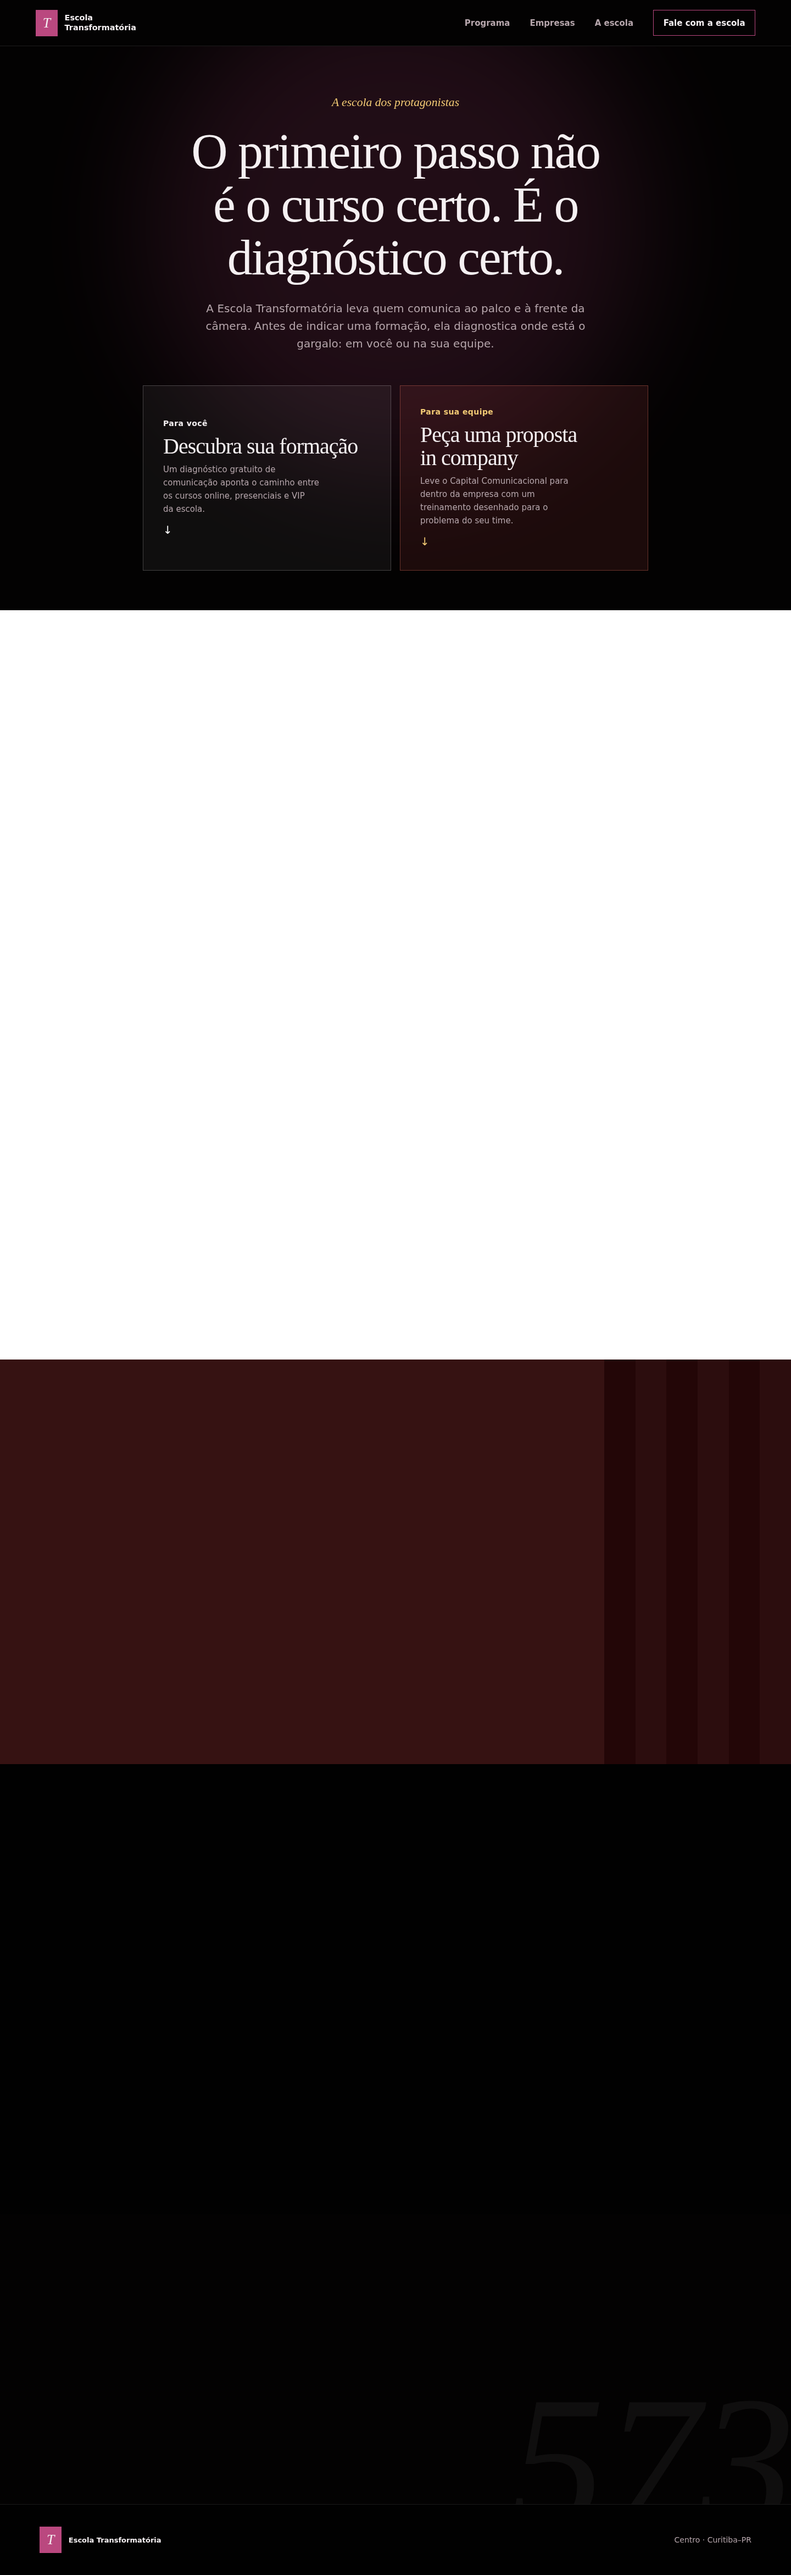
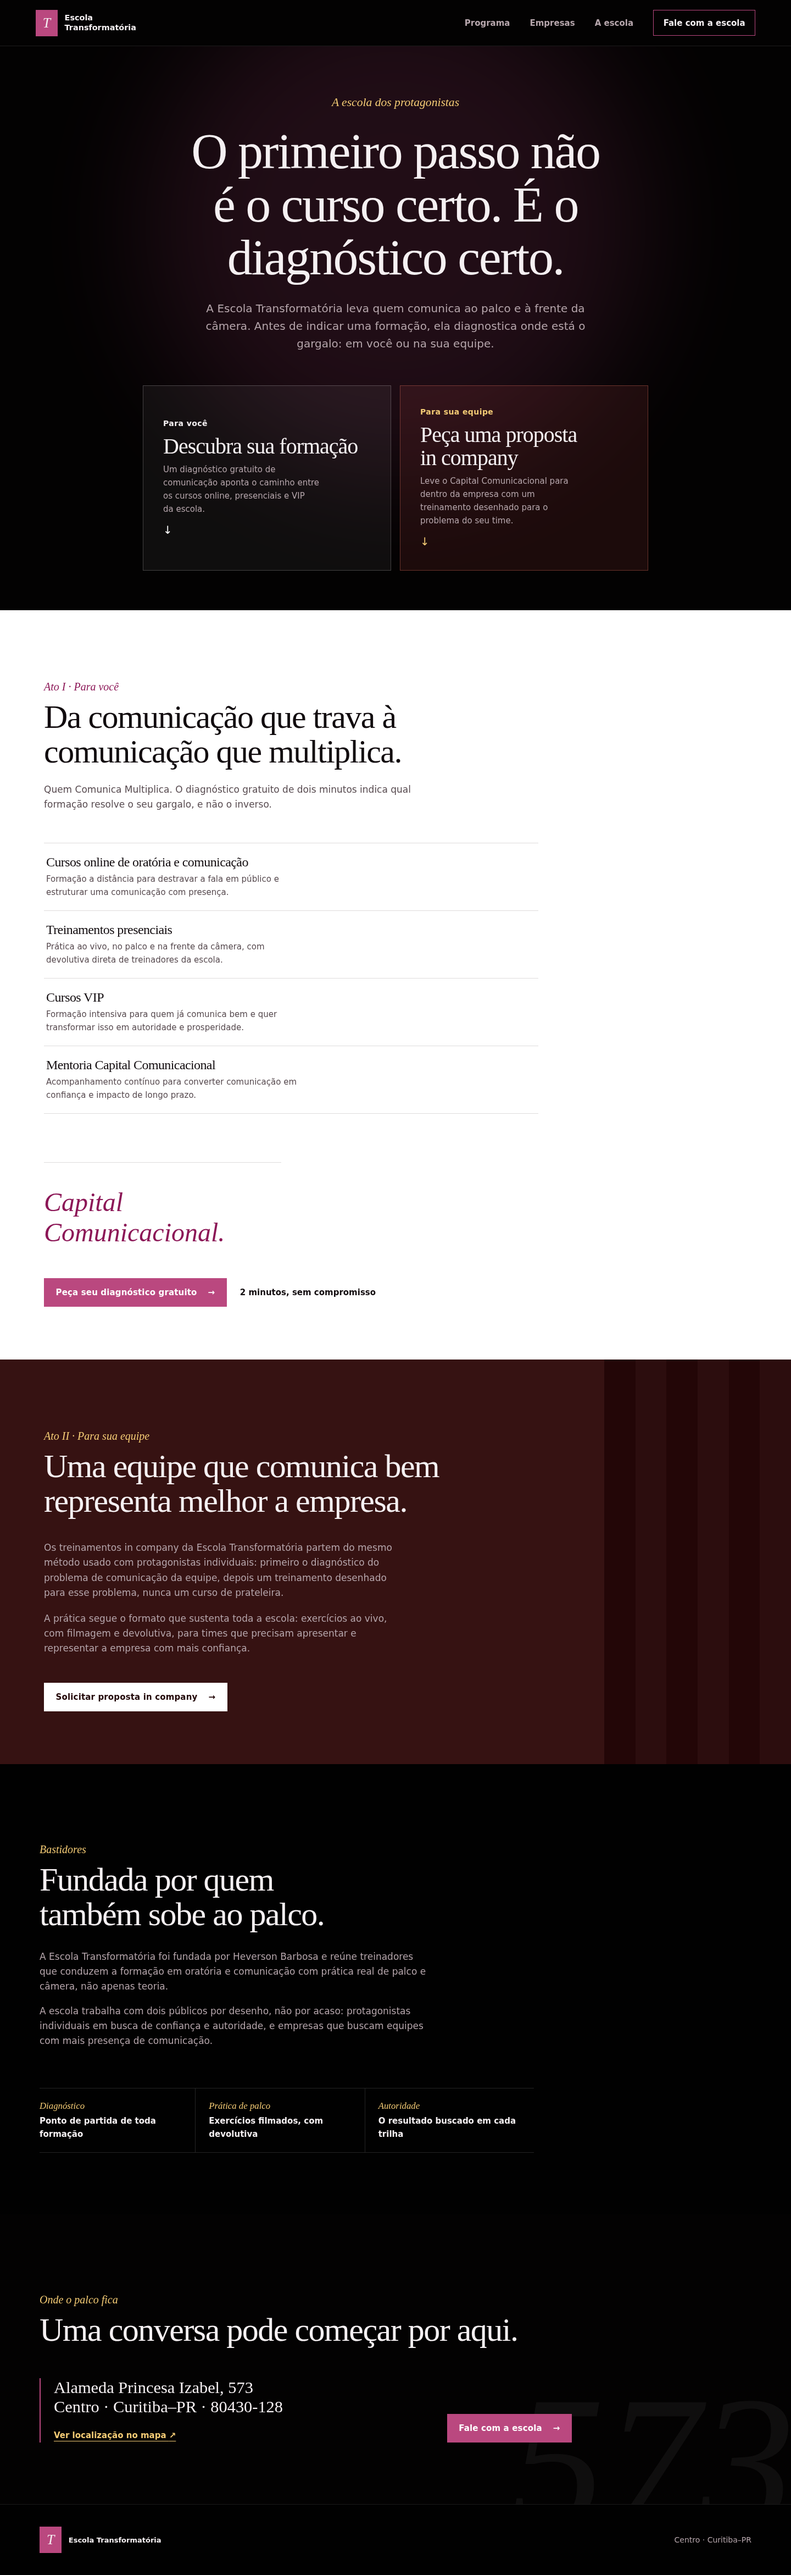
Promote validated transformatoria-escola build 3bdb7b3848ce

diff --git a/sources/curitiba-rebuilds/2026-07-19/transformatoria-escola/styles.css b/sources/curitiba-rebuilds/2026-07-19/transformatoria-escola/styles.css
@@ -483,22 +483,21 @@ footer.site-footer p { margin: 0; font-size: .875rem; }
 /* ==========================================================================
    Reveal-on-scroll (staggered, disabled under reduced motion)
    ========================================================================== */
-/* Content is visible by default, with or without JS. The reveal effect is a
-   progressive enhancement: only elements explicitly marked ".pending" by
-   script.js (because they were off-screen at load) ever go transparent, and
-   a JS-side failsafe timer forces them visible regardless of whether the
-   IntersectionObserver fires. Content must never depend on a class-triggered
-   transition to become visible at all. */
+/* Content is visible (opacity:1) by default and ALWAYS, with or without JS,
+   regardless of timing. The reveal effect only animates a subtle transform
+   offset on elements script.js marks ".pending" (off-screen at load) — it
+   never gates opacity on a class, an observer callback, or a timer, so a
+   fast programmatic scroll-through (or any renderer that skips/delays the
+   IntersectionObserver) can never leave content invisible. */
 .reveal { opacity: 1; transform: none; }
 .js .reveal.pending {
-  opacity: 0;
-  transform: translateY(20px);
-  transition: opacity .7s cubic-bezier(.16,1,.3,1), transform .7s cubic-bezier(.16,1,.3,1);
+  transform: translateY(16px);
+  transition: transform .7s cubic-bezier(.16,1,.3,1);
 }
-.js .reveal.pending.visible { opacity: 1; transform: none; }
+.js .reveal.pending.visible { transform: none; }
 @media (prefers-reduced-motion: reduce) {
   html { scroll-behavior: auto; }
-  .js .reveal.pending { opacity: 1; transform: none; transition: none; }
+  .js .reveal.pending { transform: none; transition: none; }
   .spotlight-glow { display: none; }
 }
 

diff --git a/sources/curitiba-rebuilds/2026-07-19/transformatoria-escola/script.js b/sources/curitiba-rebuilds/2026-07-19/transformatoria-escola/script.js
@@ -25,11 +25,12 @@ if (menuButton && navigation) {
   });
 }
 
-// Staggered reveal-on-scroll. Content is visible by default (see styles.css);
-// this only ADDS a transparent "pending" starting state to elements that are
-// off-screen at load, so the effect enhances an already-visible page instead
-// of gating visibility on a class the observer might never apply (paused
-// tabs, headless renderers without a resize/paint tick, reduced motion).
+// Staggered reveal-on-scroll. Content is opacity:1 by default in styles.css
+// NO MATTER WHAT — this only adds a small transform offset to elements that
+// are off-screen at load, then animates it to rest once each scrolls into
+// view. Because opacity is never gated on JS/class/observer state, a fast
+// programmatic scroll, a paused tab, or an observer that never fires still
+// leaves every section fully visible; only the subtle motion is skipped.
 const reveals = document.querySelectorAll('.reveal');
 const prefersReducedMotion = window.matchMedia('(prefers-reduced-motion: reduce)').matches;
 
@@ -54,8 +55,9 @@ if ('IntersectionObserver' in window && !prefersReducedMotion) {
   }, { threshold: 0.12 });
   pending.forEach((element) => observer.observe(element));
 
-  // Failsafe: force every pending element visible after a short delay
-  // regardless of observer state, so content is never permanently gated.
+  // Failsafe: settle every pending element's transform after a short delay
+  // regardless of observer state. Belt-and-braces only — content was never
+  // invisible even before this fires, since opacity is not part of .pending.
   window.setTimeout(() => {
     pending.forEach((element) => element.classList.add('visible'));
   }, 2500);
